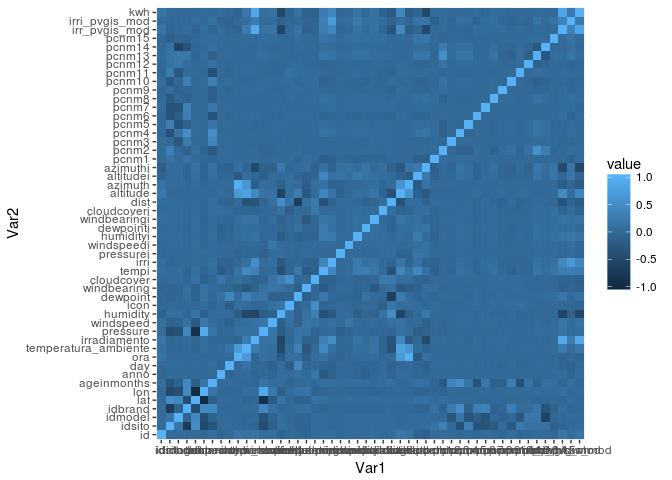
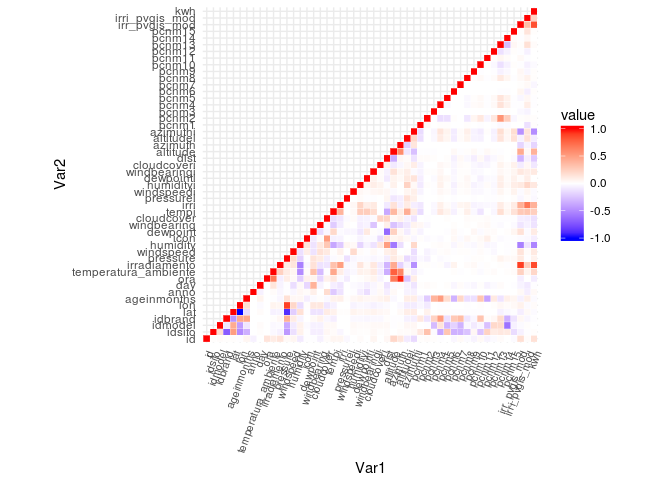
Improve correlation plot

diff --git a/README.md b/README.md
@@ -141,13 +141,20 @@ nrow(data)
 
 ##### Korelacja między zmiennymi
 
-Odfiltrowanie daty, aby zostały same numeryczne wartości
+Odfiltrowanie daty, aby zostały same numeryczne wartości Macierz korelacji jest symetryczna, więc dla czytelności usuwamy górny trójkąt
 
 ``` r
 data <- data[, !(names(data) %in% 'data')]
 correlations <- round(cor(data), 2)
-correlations_melt <- melt(correlations)
-ggplot(data = correlations_melt, aes(x=Var1, y=Var2, fill=value)) + geom_tile()
+correlations[upper.tri(correlations)] <- NA
+correlations_melt <- melt(correlations, na.rm = TRUE)
+
+ggplot(data = correlations_melt, aes(Var1, Var2, fill = value)) + 
+  geom_tile(color = "white") + 
+  scale_fill_gradient2(low="blue", mid="white", high="red", midpoint=0, limit=c(-1,1)) + 
+  theme_minimal() + 
+  theme(axis.text.x = element_text(angle = 70, size = 8, vjust = 1, hjust = 1)) +
+  coord_fixed()
 ```
 
 ![](README_files/figure-markdown_github/unnamed-chunk-2-1.png)
